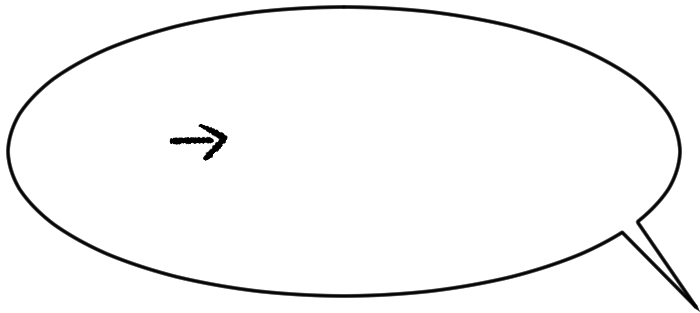
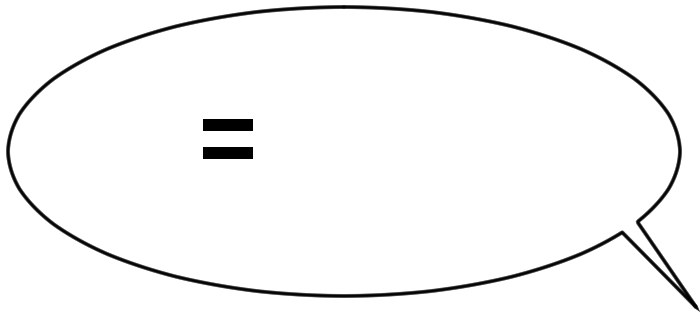
juego super base ya hecho

Changed region(s): [[0.24, 0.3738, 0.36, 0.5176]]

diff --git a/scripts/main.py b/scripts/main.py
@@ -4,62 +4,58 @@ from sys import exit
 
 ##################################################-FUNCIONES-#####################################################################
 def flash_animacion():
-    # Asegurar que la animación esté centrada en el cliente
     anim_rect = animacion_frame1.get_rect(center=rect_client.center)  
 
-    # Dibujar primer frame en el centro del cliente
     screen.blit(animacion_frame1, anim_rect)
     pygame.display.update()
-    pygame.time.delay(100)  # Espera 0.4 segundos
+    pygame.time.delay(100)  #Tiempo primer frame
 
-    # Dibujar segundo frame en el centro del cliente
     screen.blit(animacion_frame2, anim_rect)
     pygame.display.update()
-    pygame.time.delay(100) 
-
-def verificar_receta():
-    global puntuacion, receta_actual, ingredientes_receta, bebida_actual, vidas, cliente_actual, tiempo_inicio
-
-    ingredientes_set = {ing["name"] for ing in ingredientes_armados}  # Convertir a set
-
-    # Si el pedido es correcto
-    if ingredientes_set == set(ingredientes_receta) | {bebida_actual}:
-        puntuacion += 100
-        mostrar_cliente_feliz()
-        flash_animacion()
-
-    # Si el pedido es incorrecto o el tiempo llegó a 0
-    else:
-        puntuacion -= 50
-        vidas -= 1
-        flash_animacion()
-        if vidas <= 0:
-            game_over()
-
-    # Reiniciar cliente y pedido
-    cambiar_cliente()
+    pygame.time.delay(100) #Tiempo segundo frame
 
 def cambiar_cliente():
-    global cliente_actual, receta_actual, ingredientes_receta, bebida_actual, tiempo_inicio
+    global cliente_actual, receta_actual, ingredientes_receta, bebida_actual, tiempo_inicio, tiempo_expirado
     
-    # 🔹 Elegir nuevo cliente y pedido
     cliente_actual = random.choice(tipos_clientes)
     receta_actual, ingredientes_receta = random.choice(list(recetas.items()))
     bebida_actual = random.choice(bebidas)
 
-    # 🔹 Reiniciar el temporizador
+    
     tiempo_inicio = pygame.time.get_ticks()
+    tiempo_expirado = False
 
+    ingredientes_armados.clear()
+
+    screen.blit(surface_nube, rect_nube)
+    screen.blit(cliente_actual["normal"], rect_client)  
+    pygame.display.update()
+
+def verificar_receta():
+    global puntuacion, vidas, tiempo_inicio
+
+    ingredientes_set = {ing["name"] for ing in ingredientes_armados}
+    if ingredientes_set == set(ingredientes_receta) | {bebida_actual}:
+        puntuacion += 100
+        mostrar_cliente_feliz()
+    else:
+        puntuacion -= 50
+        vidas -= 1
+        if vidas <= 0:
+            game_over()
+
+    flash_animacion()  
+    cambiar_cliente() 
 
 def mostrar_cliente_feliz():
     screen.blit(cliente_actual["feliz"], rect_client)
     pygame.display.update()
-    pygame.time.delay(1000)  # Espera 1 segundo antes de cambiar al siguiente cliente
+    pygame.time.delay(1000)  
 
 def game_over():
     screen.fill((0, 0, 0))
     game_over_text = font.render("GAME OVER", True, (255, 0, 0))
-    screen.blit(game_over_text, (width//2 - 100, height//2))
+    screen.blit(game_over_text, (height//2.5 , width//2))
     pygame.display.update()
     pygame.time.delay(3000)
     pygame.quit()
@@ -111,7 +107,7 @@ rect_entregar = surface_entregar.get_rect(center = (height//1.33, width//1.215))
 
 ingredientes_data = [
 
-    # Carnes, panes y verduras
+    #Carnes, panes y verduras
     {"name": "cheese", "path": 'graphics/art_kidchen elements/cheese.png', "size": (90, 90), "pos": (height//4, width//1.350), "align": "center"},
     {"name": "lettuce", "path": 'graphics/art_kidchen elements/lettuce.png', "size": (90, 90), "pos": (height//3.050, width//1.345), "align": "center"},
     {"name": "tomato", "path": 'graphics/art_kidchen elements/tomato.png', "size": (90, 90), "pos": (height//3.090, width//1.193), "align": "center"},
@@ -125,12 +121,12 @@ ingredientes_data = [
     {"name": "pan3", "path": 'graphics/art_kidchen elements/pan_3.png', "size": (100, 100), "pos": (height//11, width//1.075), "align": "center"},
     {"name": "tortilla", "path": 'graphics/art_kidchen elements/tortilla.png', "size": (100, 100), "pos": (height//4.05, width//1.092), "align": "center"},
     
-    # Salsas
+    #Salsas
     {"name": "salsa1", "path": 'graphics/art_kidchen elements/salsa_1.png', "size": (50, 100), "pos": (height//2, width//1.370), "align": "midbottom"},
     {"name": "salsa2", "path": 'graphics/art_kidchen elements/salsa_2.png', "size": (50, 100), "pos": (height//2.190, width//1.370), "align": "midbottom"},
     {"name": "salsa3", "path": 'graphics/art_kidchen elements/salsa_3.png', "size": (50, 100), "pos": (height//1.85, width//1.370), "align": "midbottom"},
     
-    # Bebidas y papitas
+    #Bebidas y papitas
     {"name": "soda", "path": 'graphics/art_kidchen elements/soda.png', "size": (100, 100), "pos": (height//12, width//1.470), "align": "midbottom"},
     {"name": "water", "path": 'graphics/art_kidchen elements/wather.png', "size": (100, 100), "pos": (height//8, width//1.470), "align": "midbottom"},
     {"name": "boxjuice", "path": 'graphics/art_kidchen elements/boxjuice.png', "size": (100, 100), "pos": (height//6, width//1.470), "align": "midbottom"},
@@ -181,7 +177,7 @@ rect_nube = surface_nube.get_rect(center = (width/0.9, height//8))
 
 cliente_actual = random.choice(tipos_clientes)
 
-# Definir recetas
+#Recetas definidas
 recetas = {
     "hamburguesa": {"meat1", "lettuce", "tomato", "cheese", "pan2", "salsa1"},
     "sandwich": {"jamoneta", "lettuce", "tomato", "cheese", "onion", "pan3"},
@@ -189,10 +185,10 @@ recetas = {
     "burrito": {"tortilla", "meat2", "onion", "lettuce", "salsa3"}
 }
 
-# Lista de bebidas
+#Lista de bebidas
 bebidas = ["soda", "water", "boxjuice"]
 
-# Seleccionar receta y bebida aleatoria
+#Seleccionar receta y bebida aleatoria
 receta_actual, ingredientes_receta = random.choice(list(recetas.items()))
 bebida_actual = random.choice(bebidas)
 
@@ -213,12 +209,11 @@ rect_exit = surface_exit.get_rect(center = (height//2, width//1.2))
 surface_continue = font.render('continue', True, white)
 rect_continue = surface_continue.get_rect(center = (height//1.2, width//1.2))
 
-#Zona de armado
-
+#Zona de armado, puntuacion y vidas
 zona_armado = pygame.Rect(width*0.7426 , height*0.418, height * 0.26, width*0.187)
 ingredientes_armados = []
 max_ingredientes = 8
-vidas = 3
+vidas = 4
 puntuacion = 0
 
 #Flag switches 
@@ -226,7 +221,6 @@ mouse_pos = pygame.mouse.get_pos()
 sound_played_play = False
 sound_played_exit = False
 sound_played_continue = False
-arrastre = False
 ############################################################FUNCIONES############################################################
 
 
@@ -318,25 +312,24 @@ def tutorial_screen():
 #--------------------------------------------------------------------------------------------------------------------------------#
 #-------------------------------------------------------------GAME---------------------------------------------------------------#
 def game_running():
-    global ingredientes_armados, tiempo_restante, puntuacion, cliente_actual
+    global ingredientes_armados, tiempo_inicio, puntuacion, cliente_actual, tiempo_expirado
+
     ingrediente_seleccionado = None
     offset_x, offset_y = 0, 0
+
     tiempo_inicio = pygame.time.get_ticks()
+    tiempo_expirado = False
 
     while True:
-
-        mouse_pos = pygame.mouse.get_pos()  # Obtener la posición del mouse
-        cursor_normal = True  # Bandera para restaurar cursor si no está sobre nada interacti
-
-        tiempo_actual = pygame.time.get_ticks()  # Obtener tiempo actual
-        tiempo_transcurrido = (tiempo_actual - tiempo_inicio) // 1000  # Convertir a segundos
-        tiempo_restante = max(5 - tiempo_transcurrido, 0)
+        #cursor
+        mouse_pos = pygame.mouse.get_pos()  
+        cursor_normal = True  
+        #Temporizador regresivo
+        tiempo_actual = pygame.time.get_ticks()  
+        tiempo_transcurrido = (tiempo_actual - tiempo_inicio) // 1000  
+        tiempo_restante = max(10 - tiempo_transcurrido, 0)
 
         for event in pygame.event.get():
-            if event.type == pygame.QUIT:
-                pygame.quit()
-                exit()
-                
             if event.type == pygame.MOUSEBUTTONDOWN:
                 if rect_vaciar.collidepoint(event.pos):
                     ingredientes_armados.clear()
@@ -349,7 +342,6 @@ def game_running():
                             offset_x = event.pos[0] - ingrediente_seleccionado["rect"].x
                             offset_y = event.pos[1] - ingrediente_seleccionado["rect"].y
                             break
-
             if event.type == pygame.MOUSEBUTTONUP and ingrediente_seleccionado:
                 if zona_armado.colliderect(ingrediente_seleccionado["rect"]):
                     if len(ingredientes_armados) < max_ingredientes:
@@ -359,95 +351,97 @@ def game_running():
             if event.type == pygame.MOUSEMOTION and ingrediente_seleccionado:
                 ingrediente_seleccionado["rect"].x = event.pos[0] - offset_x
                 ingrediente_seleccionado["rect"].y = event.pos[1] - offset_y
+            if event.type == pygame.QUIT:
+                pygame.quit()
+                exit()
 
-            
-
-
-
-        # Cambiar cursor si el mouse está sobre un ingrediente
+        #Cronometro finalizado
+        if tiempo_restante == 0 and not tiempo_expirado:
+                puntuacion -= 50
+                flash_animacion()
+                cambiar_cliente()  
+                tiempo_expirado = False
+        #Cursor animacion
         for ing in ingredientes:
             if ing["rect"].collidepoint(mouse_pos):
-                pygame.mouse.set_cursor(pygame.SYSTEM_CURSOR_HAND)  # Cursor de mano
+                pygame.mouse.set_cursor(pygame.SYSTEM_CURSOR_HAND)  
                 cursor_normal = False  
                 break  
-
-        # Cambiar cursor si el mouse está sobre la zona de armado o botones
         if zona_armado.collidepoint(mouse_pos) or rect_vaciar.collidepoint(mouse_pos) or rect_entregar.collidepoint(mouse_pos):
             pygame.mouse.set_cursor(pygame.SYSTEM_CURSOR_HAND)
             cursor_normal = False  
-
-        # Si el mouse no está sobre nada interactivo, restaurar cursor normal
         if cursor_normal:
             pygame.mouse.set_cursor(pygame.SYSTEM_CURSOR_ARROW)
 
-
- 
-
-
-        #Blitss en pantalla
+        #Blits
         screen.blit(surface_backgroundg,rect_backgroundg)
         screen.blit(surface_kidchen,rect_kidchen)
         screen.blit(surface_vaciar,rect_vaciar)
         screen.blit(surface_entregar,rect_entregar)
-
         screen.blit(surface_nube, rect_nube)
         screen.blit(cliente_actual["normal"], rect_client)
-        
-       
-
-        # Dibujar la zona de armado
-        pygame.draw.rect(screen, (200, 100, 100), zona_armado, 3)
-        #Dibuja todos los ingredientes
+        pygame.draw.rect(screen, (200, 100, 100), zona_armado, 3) 
+        #Gerenador de ingredientes
         for ing in ingredientes:
             screen.blit(ing["image"], ing["rect"])
-        # Dibujar los ingredientes armados dentro de la zona, organizados a la derecha
+        #Orden alimentos armados
         x_offset, y_offset = zona_armado.x + 45, zona_armado.y + 10
-        max_column = 4  # Número máximo de columnas antes de saltar de fila
+        max_column = 4  
         col_count = 0
         for ing in ingredientes_armados:
             ing["rect"].topleft = (x_offset, y_offset)
             screen.blit(ing["image"], ing["rect"])
-            x_offset += 100  # Espaciado horizontal entre ingredientes
+            x_offset += 100  #Espaciado horizontal entre ingredientes
             col_count += 1
             if col_count >= max_column:  
                 col_count = 0
                 x_offset = zona_armado.x + 30
-                y_offset += 80  # Espaciado vertical
-        
-        # Posiciones dentro de la nube
+                y_offset += 80  #Espaciado vertical
+        #NUBE DE PEDIDO
         x_base = rect_nube.x + 30
         y_base = rect_nube.y + 80
-        espacio_entre_ingredientes = 50  # Espaciado entre elementos dentro de la nube
-
-        # Mostrar la bebida al lado del alimento
-        x_offset = x_base + 50  # Espacio después del alimento
+        espacio_entre_ingredientes = 50  #Espaciado entre elementos dentro de la nube
+        x_offset = x_base + 50  #Espacio después del alimento
         for ing in ingredientes:
             if ing["name"] == bebida_actual:
                 screen.blit(ing["image"], (x_offset, y_base))
-                x_offset += 150  # Espacio para los ingredientes
+                x_offset += 150  #Espacio para los ingredientes
                 break
-
-        # Mostrar la imagen del alimento preparado dentro de la nube
+        #Alimento preparado
         if receta_actual in alimentos_preparados:
             screen.blit(alimentos_preparados[receta_actual], (x_base, y_base))
-
-        # Mostrar los ingredientes del pedido a la derecha de la comida y la bebida
         for ing_name in ingredientes_receta:
             for ing in ingredientes:
                 if ing["name"] == ing_name:
-                    ingrediente_reducido = pygame.transform.scale(ing["image"], (50, 50))  # Tamaño especial para salsas
+                    ingrediente_reducido = pygame.transform.scale(ing["image"], (50, 50))  
                     screen.blit(ingrediente_reducido, (x_offset, y_base + 30))
-                    x_offset += espacio_entre_ingredientes  # Espaciado entre ingredientes
+                    x_offset += espacio_entre_ingredientes  #Espaciado entre ingredientes
                     break
         
+        #HUD INDICADORES
+        tiempo_texto = font.render(f"{tiempo_restante}s", True, (0, 0, 0))  
+        puntuacion_texto = font.render(f"{puntuacion}", True, (0, 0, 0))
+        vidas_texto = font.render(f"Vidas: {vidas}", True, (0, 0, 0))
 
-        puntuacion_texto = font.render(f"+{puntuacion}", True, (0, 0, 255))
-        vidas_texto = font.render(f"Vidas: {vidas}", True, (255, 0, 0))
-        screen.blit(vidas_texto, (50 , 50))
-        screen.blit(puntuacion_texto, (500, 50))
+        vidas_rect = vidas_texto.get_rect(topleft=(50, 50))
+        puntuacion_rect = puntuacion_texto.get_rect(topleft=(500, 50))
 
-        tiempo_texto = font.render(f"{tiempo_restante}s", True, (255, 0, 0))  # Rojo si el tiempo baja
-        screen.blit(tiempo_texto, (rect_nube.x + rect_nube.width - 60, rect_nube.y + 20))  # Ajusta posición
+        #Margen incremento
+        vidas_fondo = vidas_rect.inflate(20, 10)
+        puntuacion_fondo = puntuacion_rect.inflate(20, 10)
+
+        #Rectangulos fondo blanco
+        pygame.draw.rect(screen, (255, 255, 255), vidas_fondo)  
+        pygame.draw.rect(screen, (255, 255, 255), puntuacion_fondo)
+
+        #Borde negro, ultimo parametro
+        pygame.draw.rect(screen, (0, 0, 0), vidas_fondo, 3)  
+        pygame.draw.rect(screen, (0, 0, 0), puntuacion_fondo, 3)
+
+        screen.blit(vidas_texto, vidas_rect.topleft)
+        screen.blit(puntuacion_texto, puntuacion_rect.topleft)
+
+        screen.blit(tiempo_texto, (height//1.65, width//4))
 
 
         pygame.display.update()
